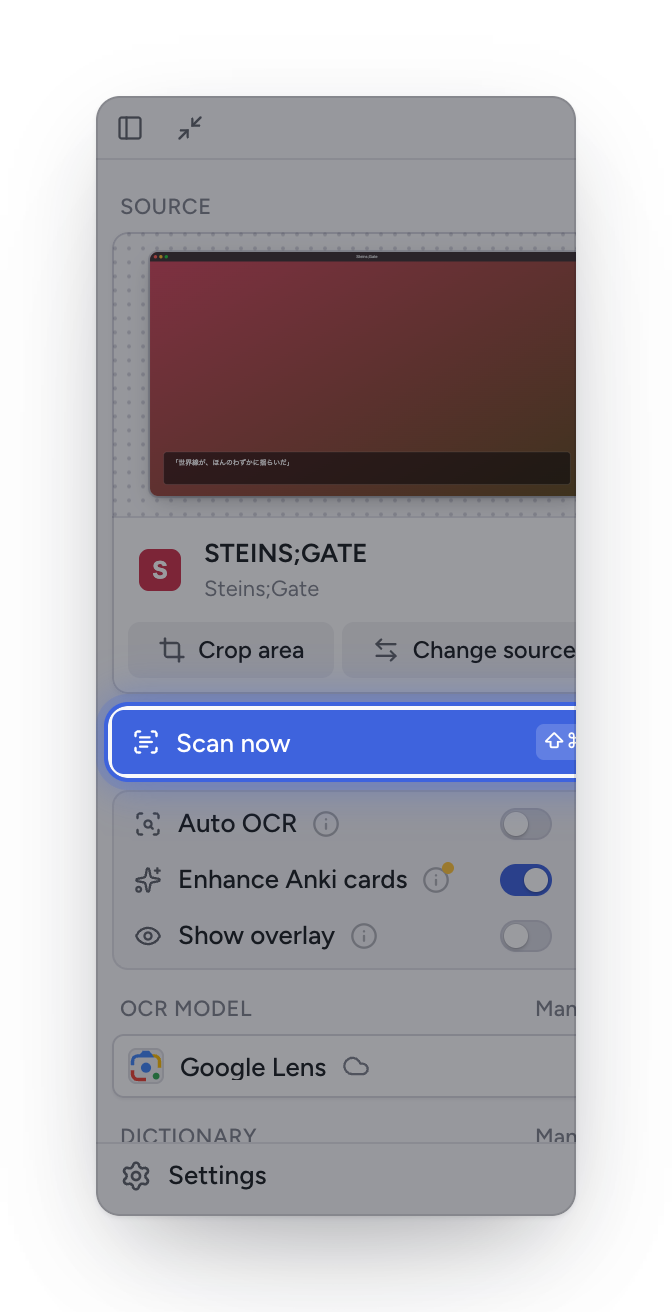
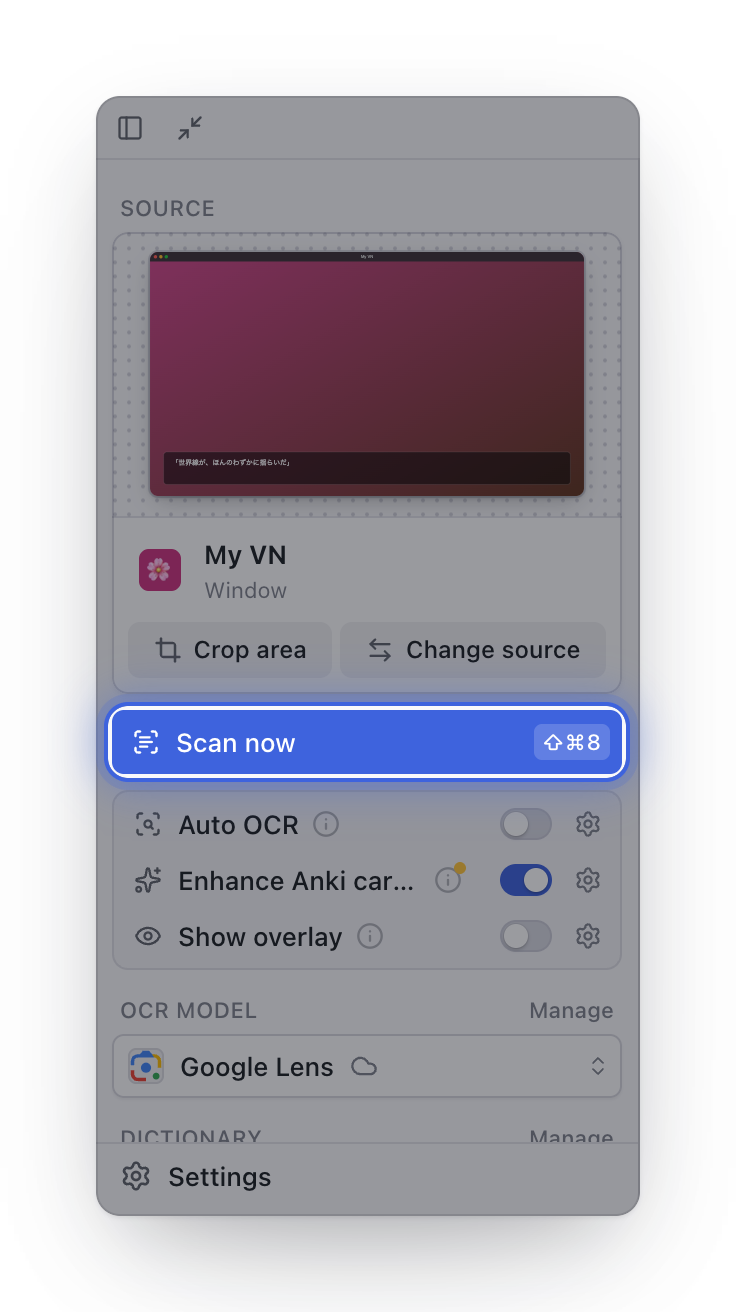
Docs: drop 'Which file is which'; sidebar shots at the sidebar's real width, glows not clipped
The sidebar crop was still 240px after the sidebar's default grew to 272px,
cutting off its right side. Glows now draw outside the window's clip, so an
outline on a target at the window's edge spreads past it.

diff --git a/site-docs/shots/stage/stage.js b/site-docs/shots/stage/stage.js
@@ -22,6 +22,7 @@ const frame = document.getElementById('app')
 const marks = document.getElementById('marks')
 const notes = document.getElementById('notes')
 const badges = document.getElementById('badges')
+const glows = document.getElementById('glows')
 
 const [width, height] = shot.size ?? [900, 560]
 
@@ -172,7 +173,7 @@ function mark() {
         glow.className = 'glow'
         glow.style.setProperty('--r', radius)
         place(glow, b)
-        marks.append(glow)
+        glows.append(glow)
       }
     } else if (m.type === 'badge') {
       const badge = document.createElement('div')

diff --git a/site-docs/shots/stage/stage.css b/site-docs/shots/stage/stage.css
@@ -122,11 +122,20 @@ body {
 
 /* Badges sit over the window but outside its clip, so one on the window's edge stays whole (the
    stage's padding leaves room for it). */
-#badges {
+/* Glows sit outside the window's clip too, so an outline on a target at the window's edge spreads
+   past it instead of being cut off. */
+#glows {
   position: absolute;
   inset: 0;
   pointer-events: none;
   z-index: 4;
+}
+
+#badges {
+  position: absolute;
+  inset: 0;
+  pointer-events: none;
+  z-index: 5;
 }
 
 .badge {

diff --git a/site-docs/shots/stage/stage.html b/site-docs/shots/stage/stage.html
@@ -16,6 +16,7 @@
         <div id="titlebar" hidden><span id="title"></span></div>
         <div id="viewport"><iframe id="app" title="Kimochi"></iframe></div>
         <div id="marks"></div>
+        <div id="glows"></div>
         <div id="badges"></div>
       </div>
       <div id="notes"></div>
